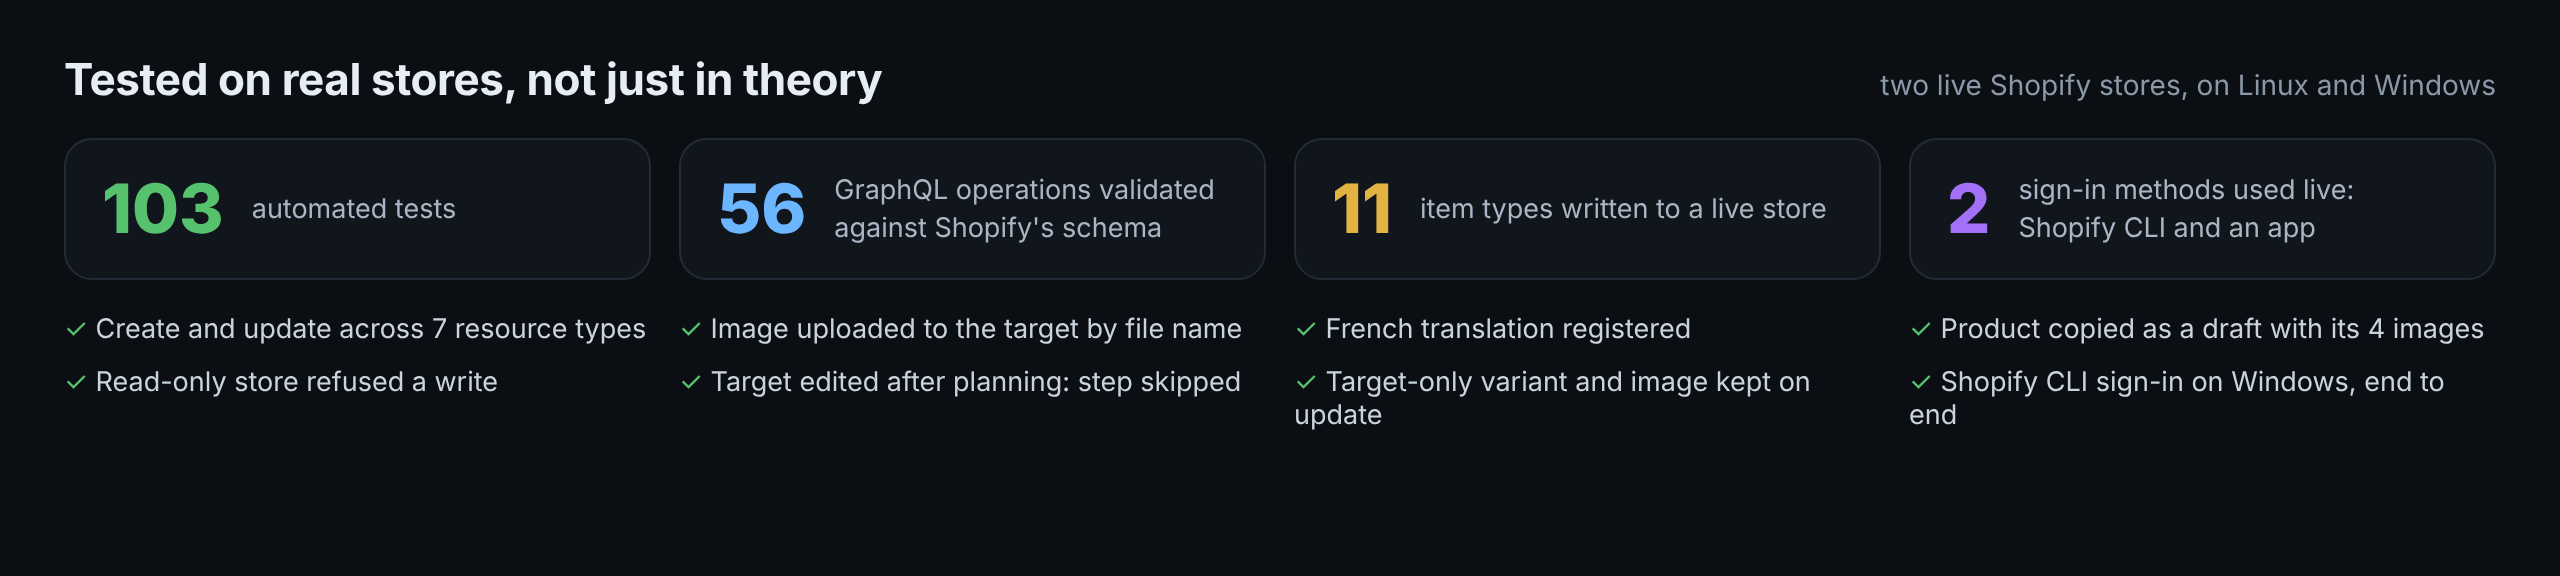
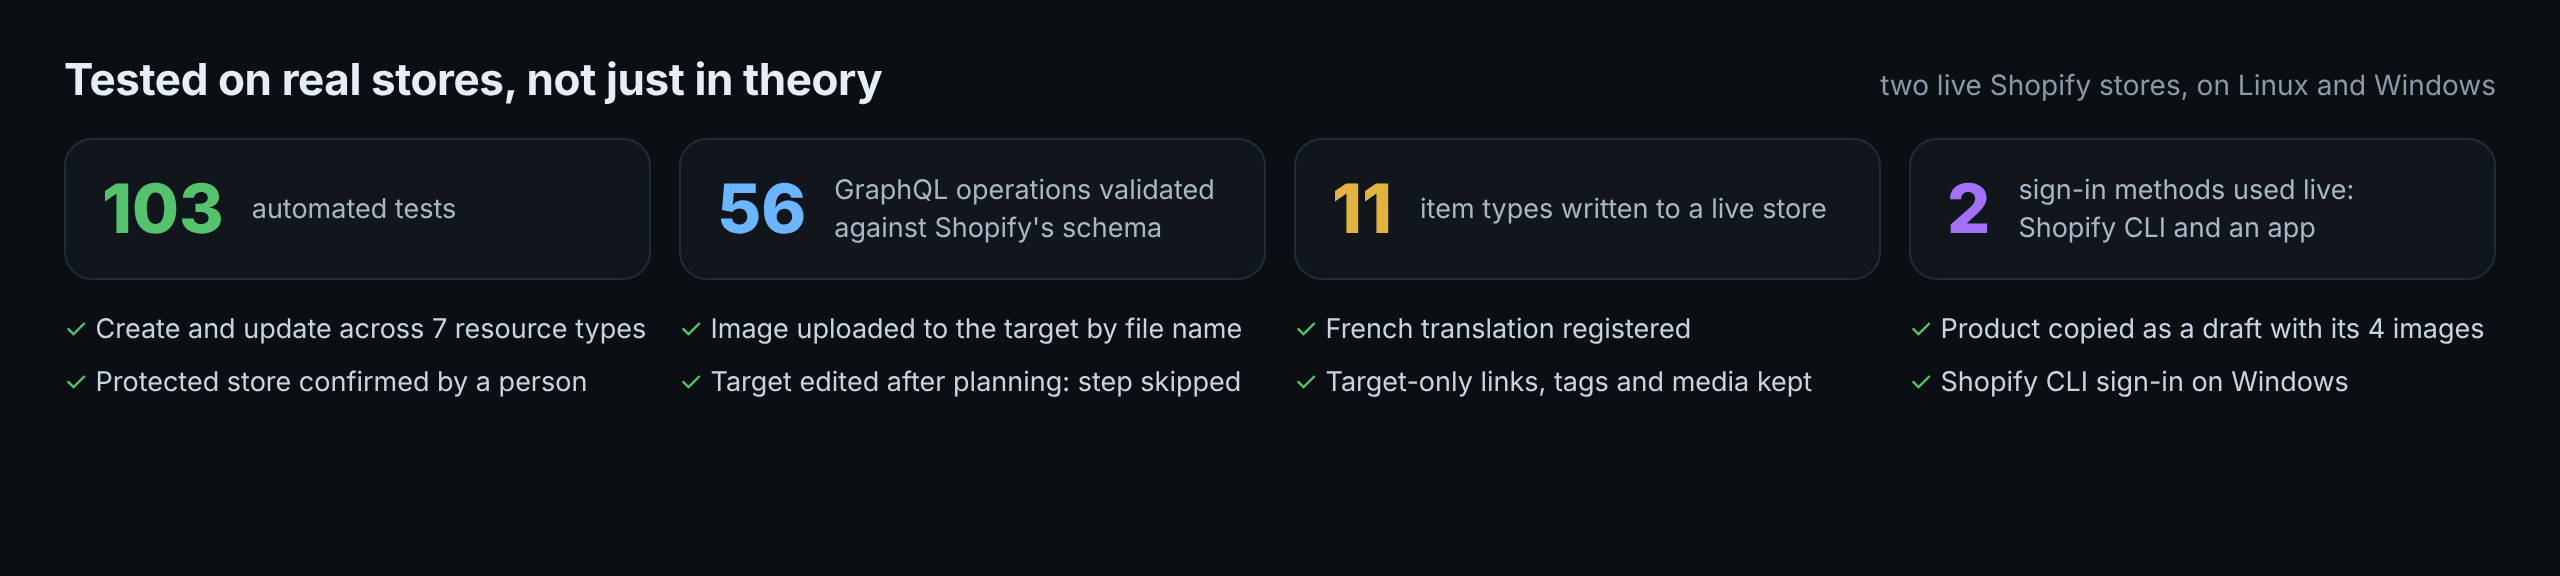
README and images: live results for 0.5.0 (menus, product tags and media, protected store over MCP, snapshot base folder)

diff --git a/README.md b/README.md
@@ -482,6 +482,10 @@ Two references followed from the source store to the target, as the sample sync 
 | Theme settings diff | read-only, 15 files compared in about 1 second |
 | Products (Shopify CLI sign-in, Windows) | a real product copied as a draft with its 4 images and alt text; after editing the copy and adding a variant and an image there, the update restored the title and kept both; the next diff was identical |
 | Products: reading only named handles | planning one product went from 97 to 6 seconds |
+| Menus (0.5.0) | a link added only in the target stayed in place through an update that added a link from the source; the plan named it; the next plan was empty |
+| Products: what only the target has (0.5.0) | a tag and a YouTube video added only in the target were both still there after an update that renamed the product and added a tag |
+| Protected store over MCP (0.5.0, stdio, Windows) | refused when the assistant passed the domain itself; applied after the person typed it when the client asked |
+| Snapshot folders over MCP (0.5.0) | a folder outside the base folder was refused |
 | Safety: write to a read-only store | refused |
 | Safety: target edited after the plan was made | step skipped, nothing overwritten |
 | Shopify CLI sign-in on Windows (CLI 4.9.4), both stores | `connect` read-only and `--writes`; plan, apply (7 creates incl. file upload and translation), update and re-diff all exact; also through the MCP server over stdio |
